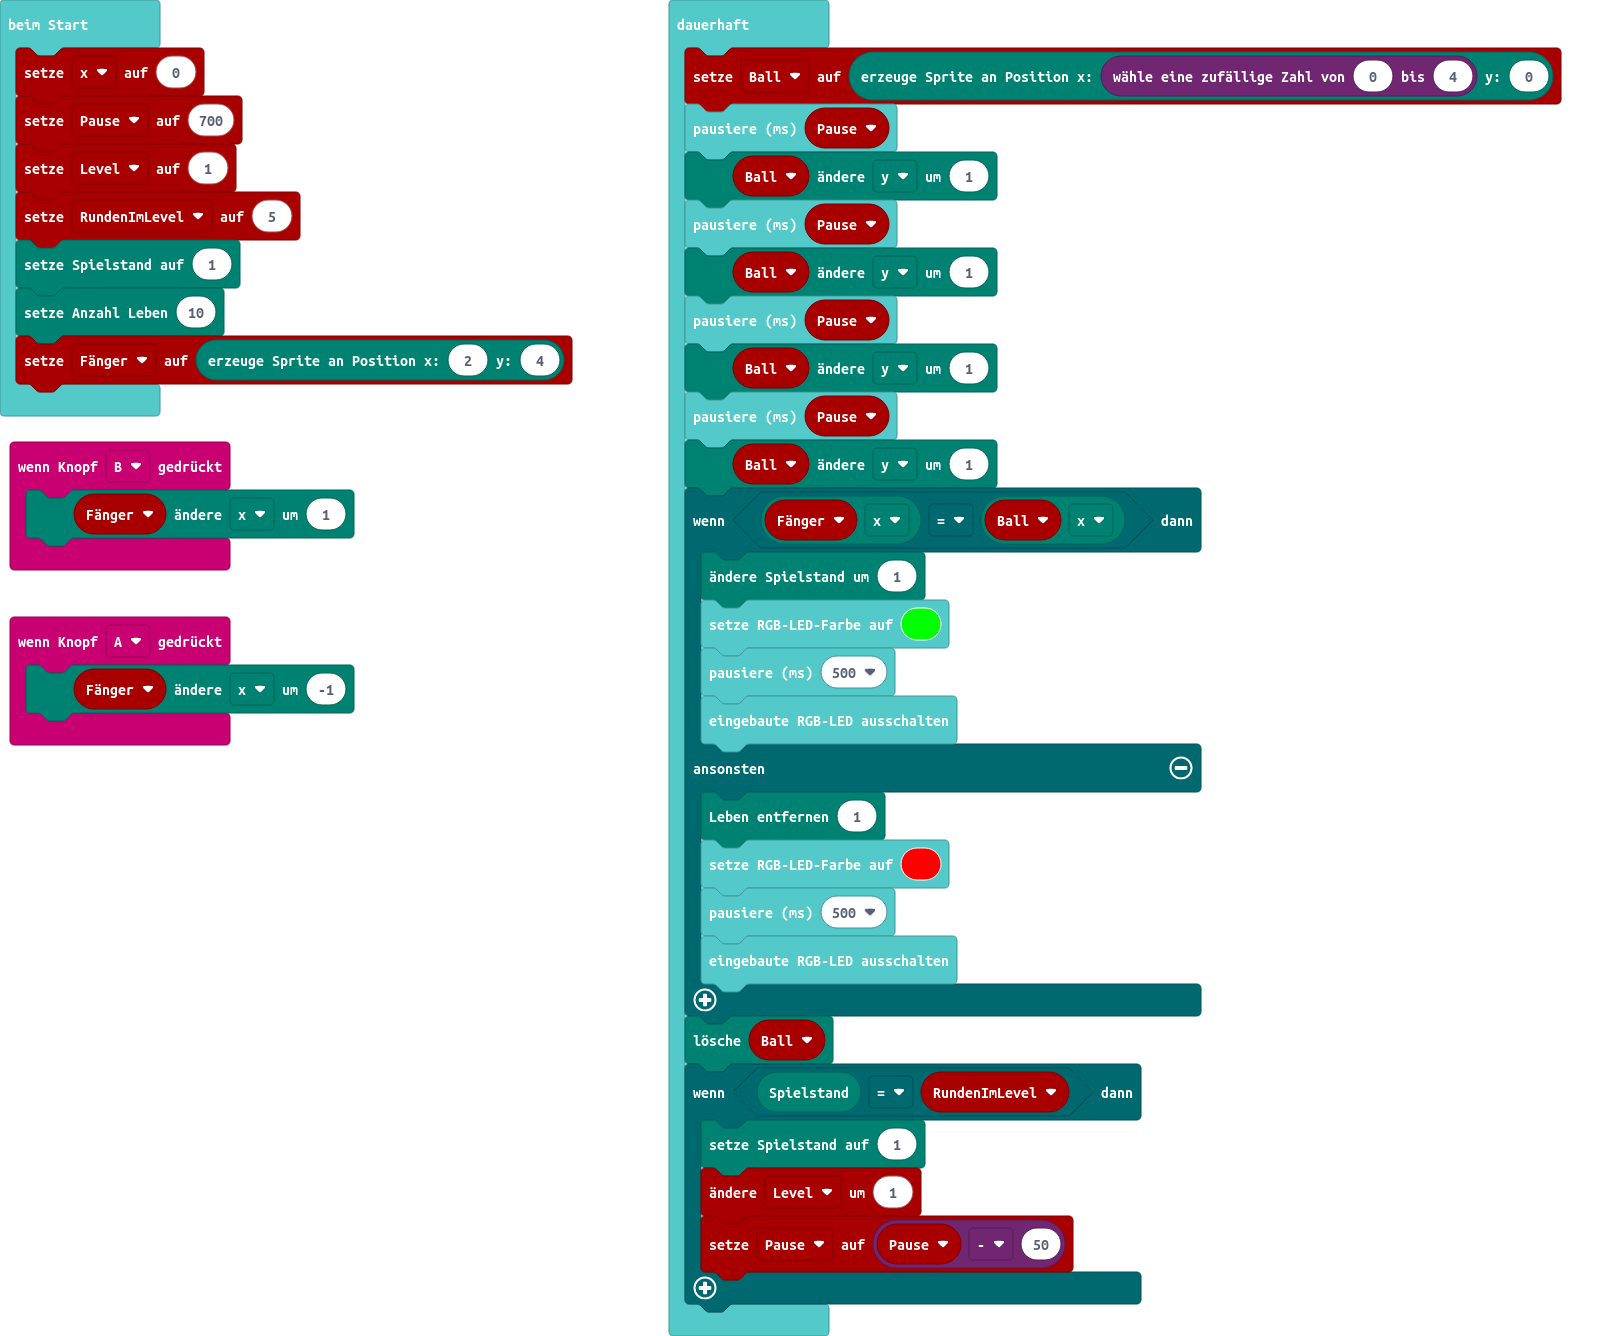
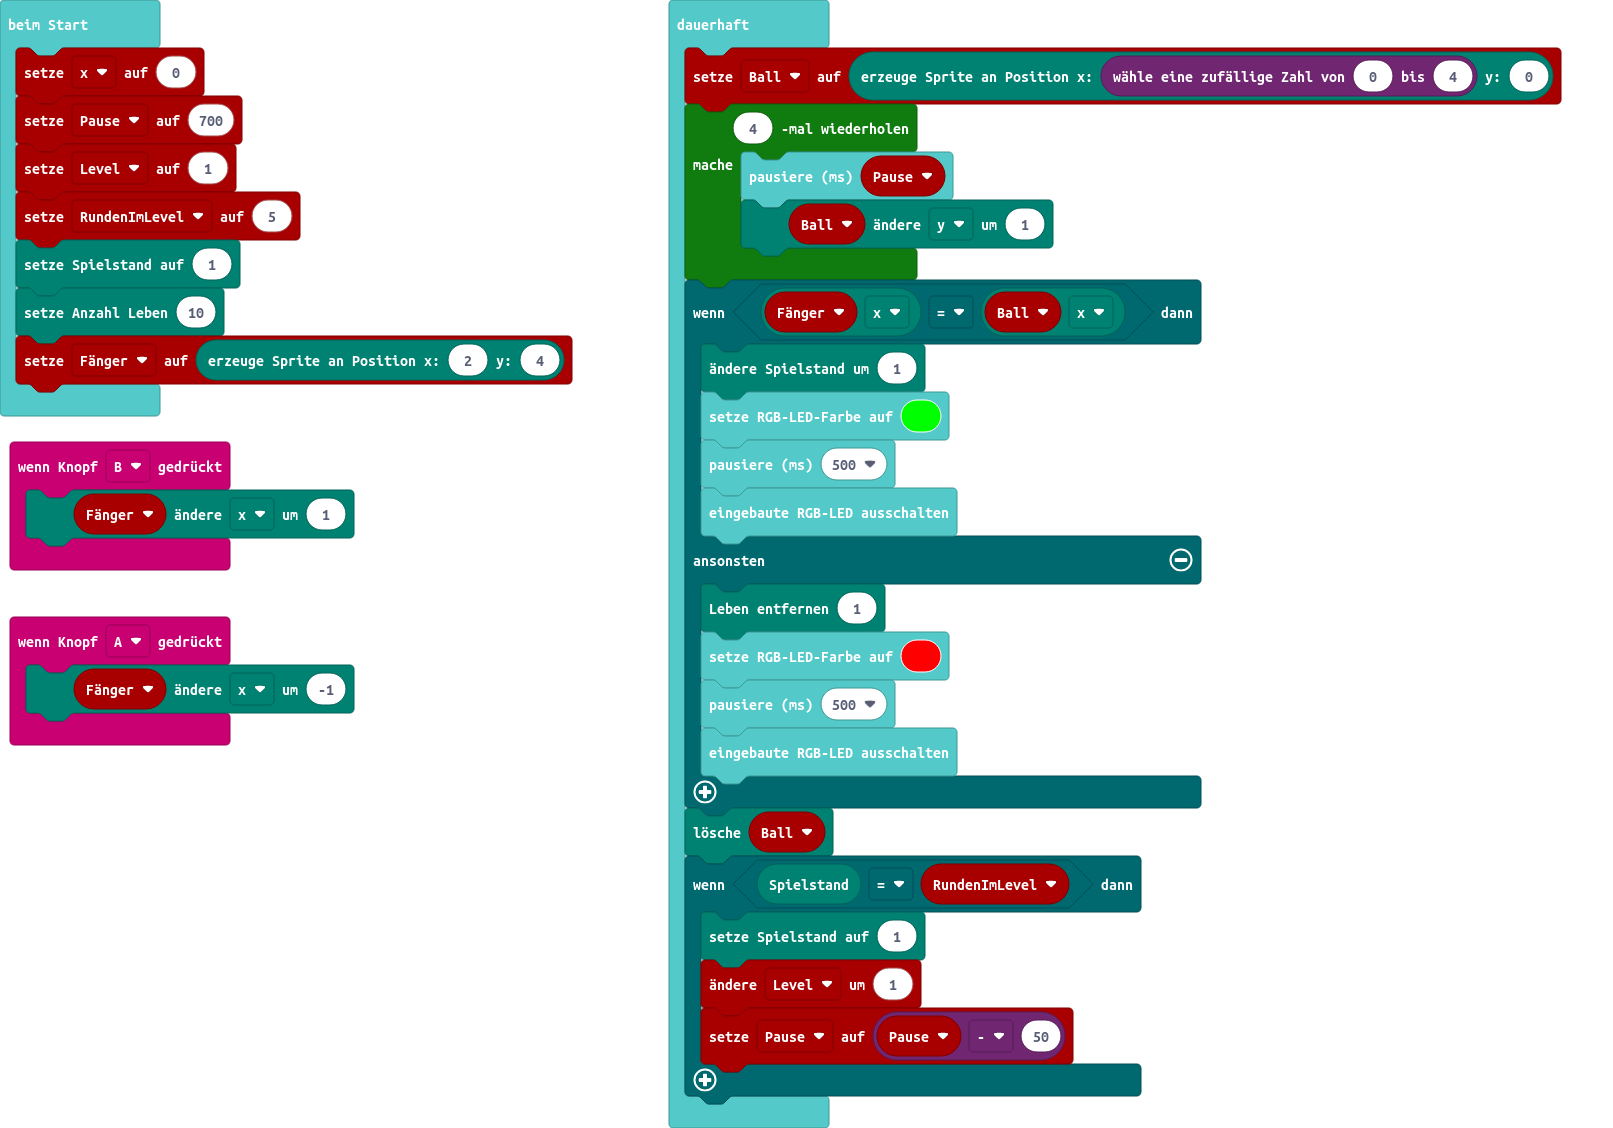
Aktualisiere main.blocks, main.ts

Changed region(s): [[0.403, 0.0, 0.9919, 0.9929], [0.0, 0.0, 0.372, 0.6826]]

diff --git a/main.ts b/main.ts
@@ -15,14 +15,10 @@ game.setLife(10)
 Fänger = game.createSprite(2, 4)
 basic.forever(function () {
     Ball = game.createSprite(randint(0, 4), 0)
-    basic.pause(Pause)
-    Ball.change(LedSpriteProperty.Y, 1)
-    basic.pause(Pause)
-    Ball.change(LedSpriteProperty.Y, 1)
-    basic.pause(Pause)
-    Ball.change(LedSpriteProperty.Y, 1)
-    basic.pause(Pause)
-    Ball.change(LedSpriteProperty.Y, 1)
+    for (let index = 0; index < 4; index++) {
+        basic.pause(Pause)
+        Ball.change(LedSpriteProperty.Y, 1)
+    }
     if (Fänger.get(LedSpriteProperty.X) == Ball.get(LedSpriteProperty.X)) {
         game.addScore(1)
         basic.setLedColor(0x00ff00)
